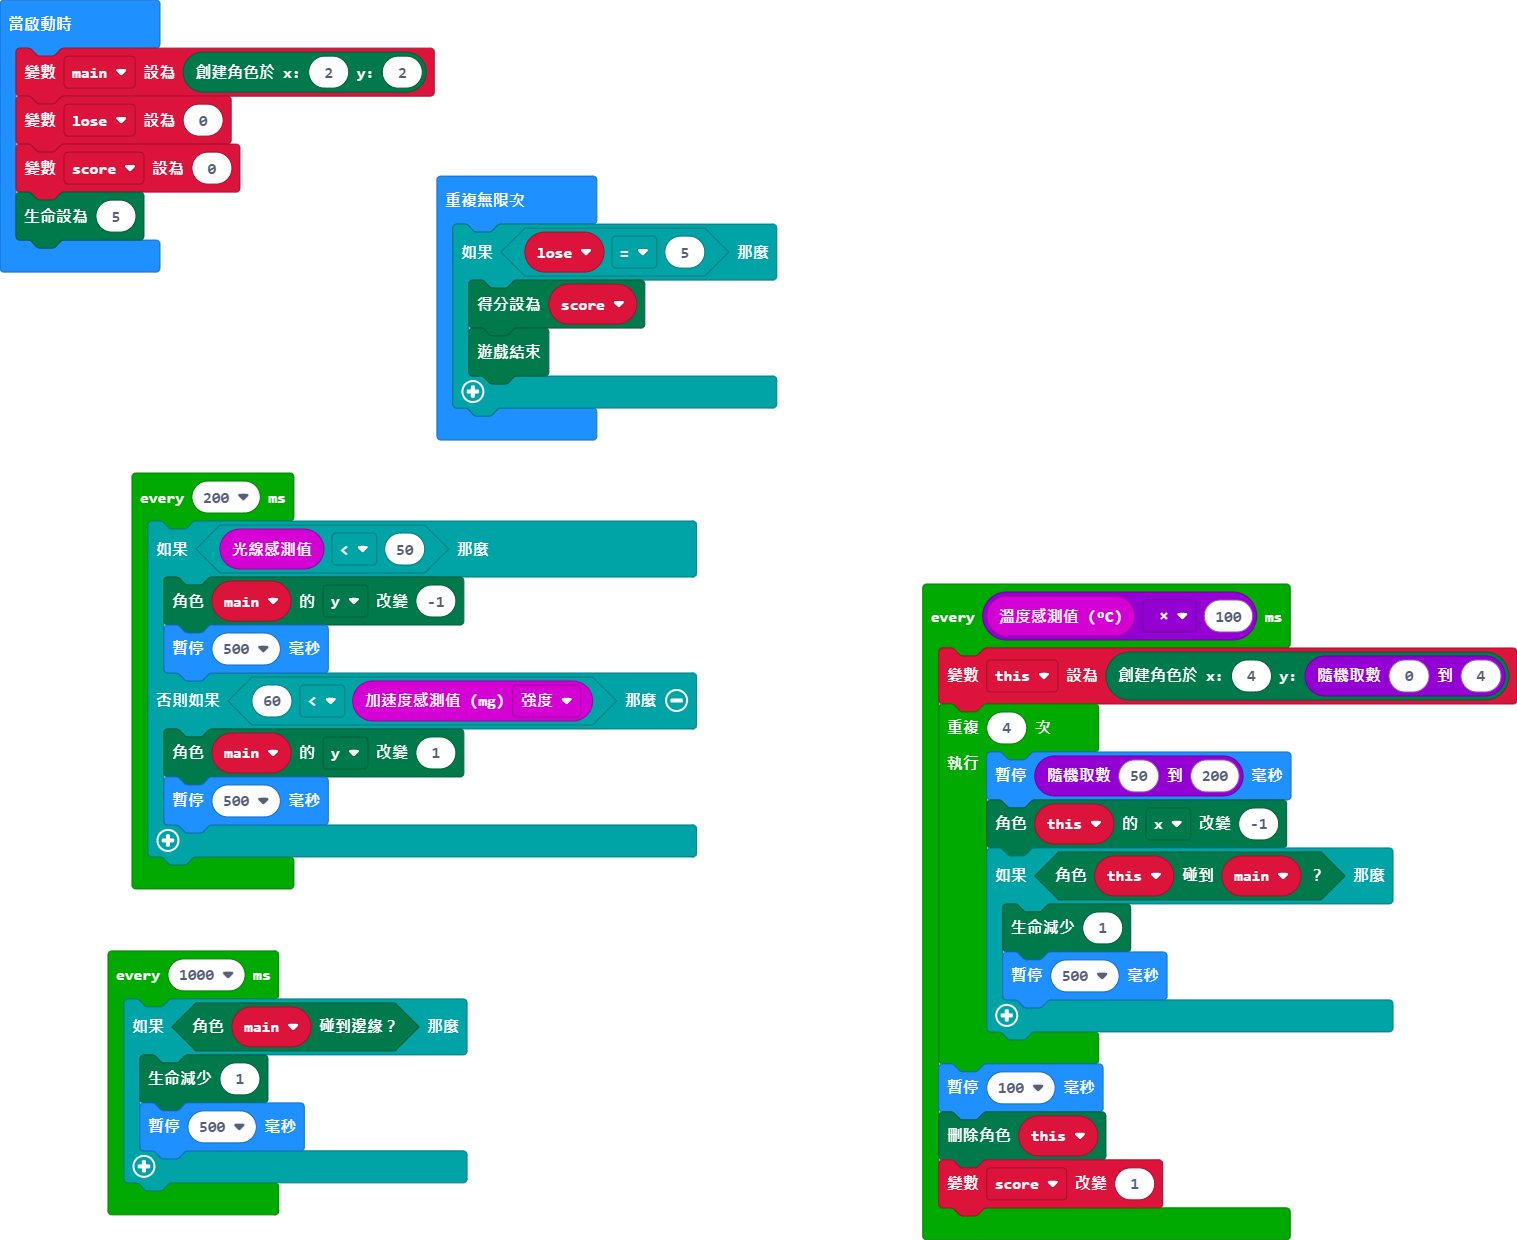
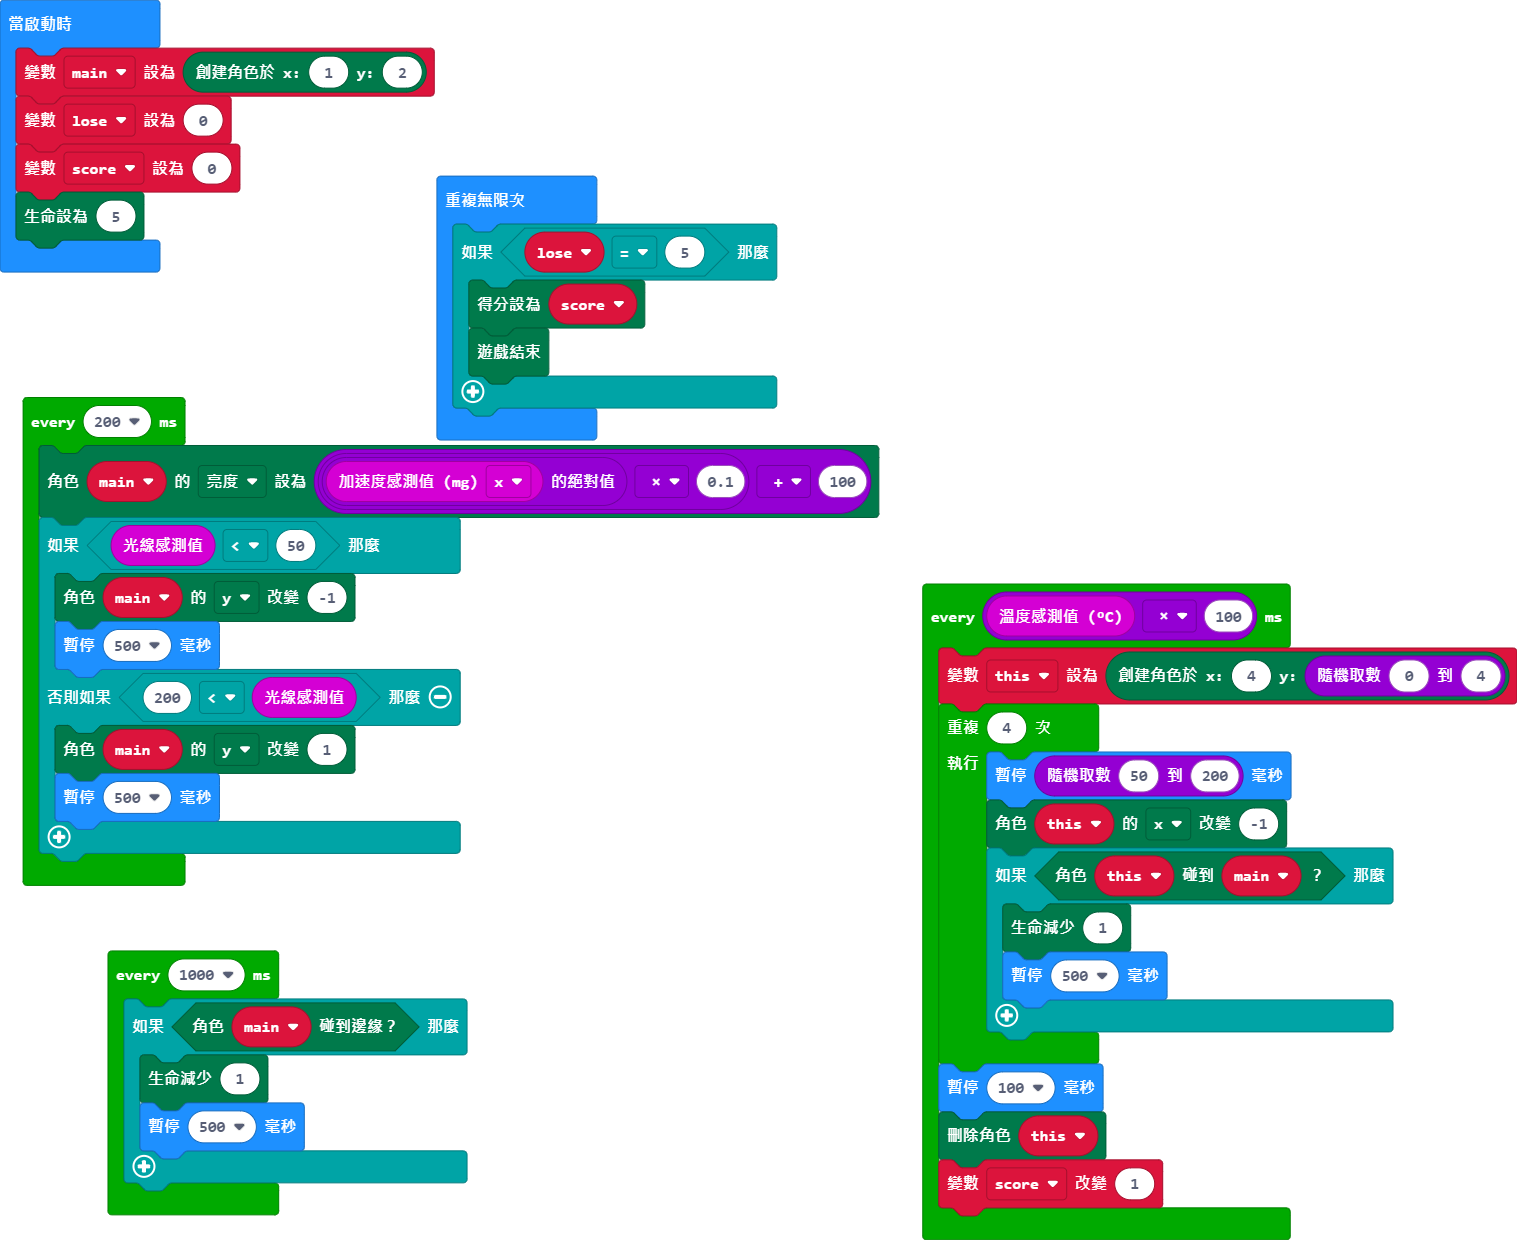
更新 main.blocks, main.ts

Changed region(s): [[0.0, 0.3065, 0.5887, 0.7355]]

diff --git a/main.ts b/main.ts
@@ -1,5 +1,5 @@
 let _this: game.LedSprite = null
-let main = game.createSprite(2, 2)
+let main = game.createSprite(1, 2)
 let lose = 0
 let score = 0
 game.setLife(5)
@@ -16,10 +16,11 @@ basic.forever(function () {
     }
 })
 loops.everyInterval(200, function () {
+    main.set(LedSpriteProperty.Brightness, Math.abs(input.acceleration(Dimension.X)) * 0.1 + 100)
     if (input.lightLevel() < 50) {
         main.change(LedSpriteProperty.Y, -1)
         basic.pause(500)
-    } else if (60 < input.acceleration(Dimension.Strength)) {
+    } else if (200 < input.lightLevel()) {
         main.change(LedSpriteProperty.Y, 1)
         basic.pause(500)
     }
